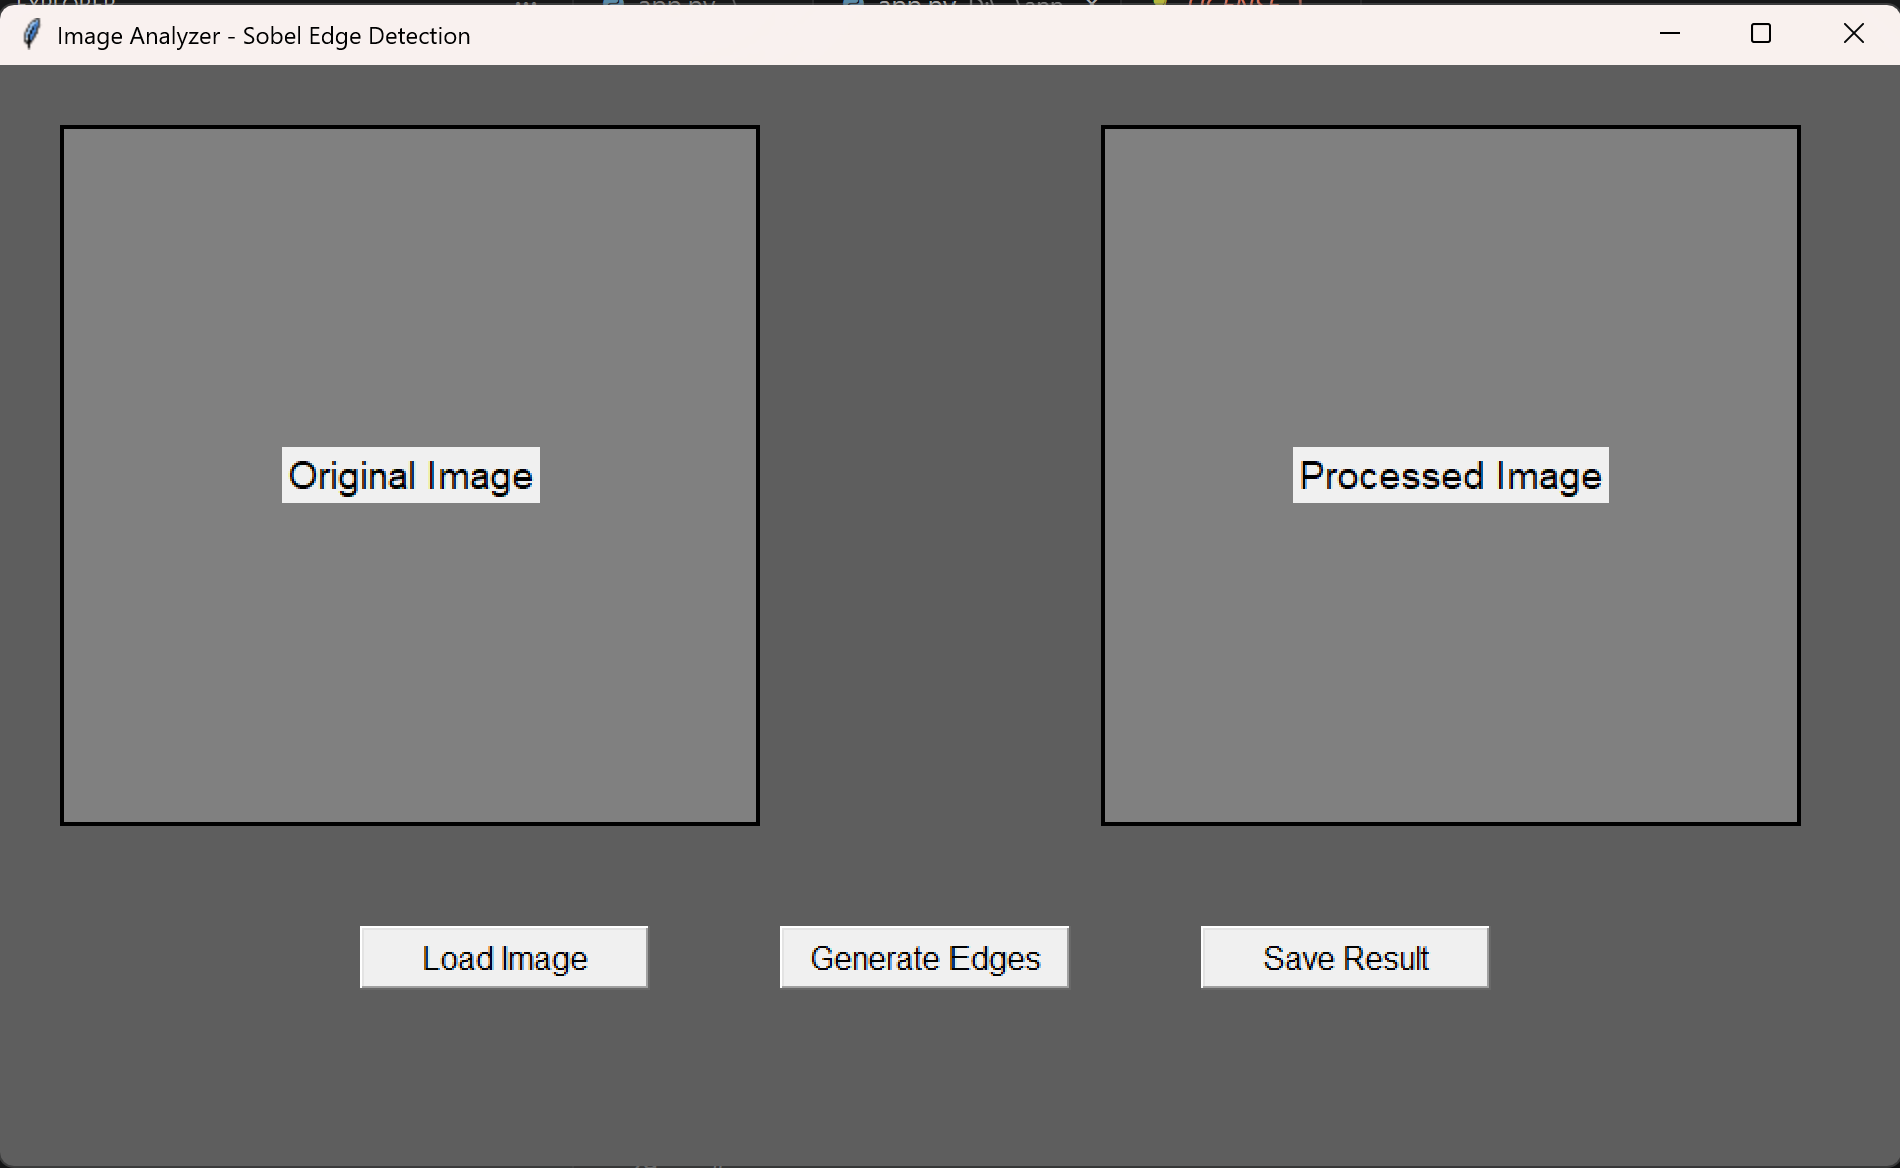
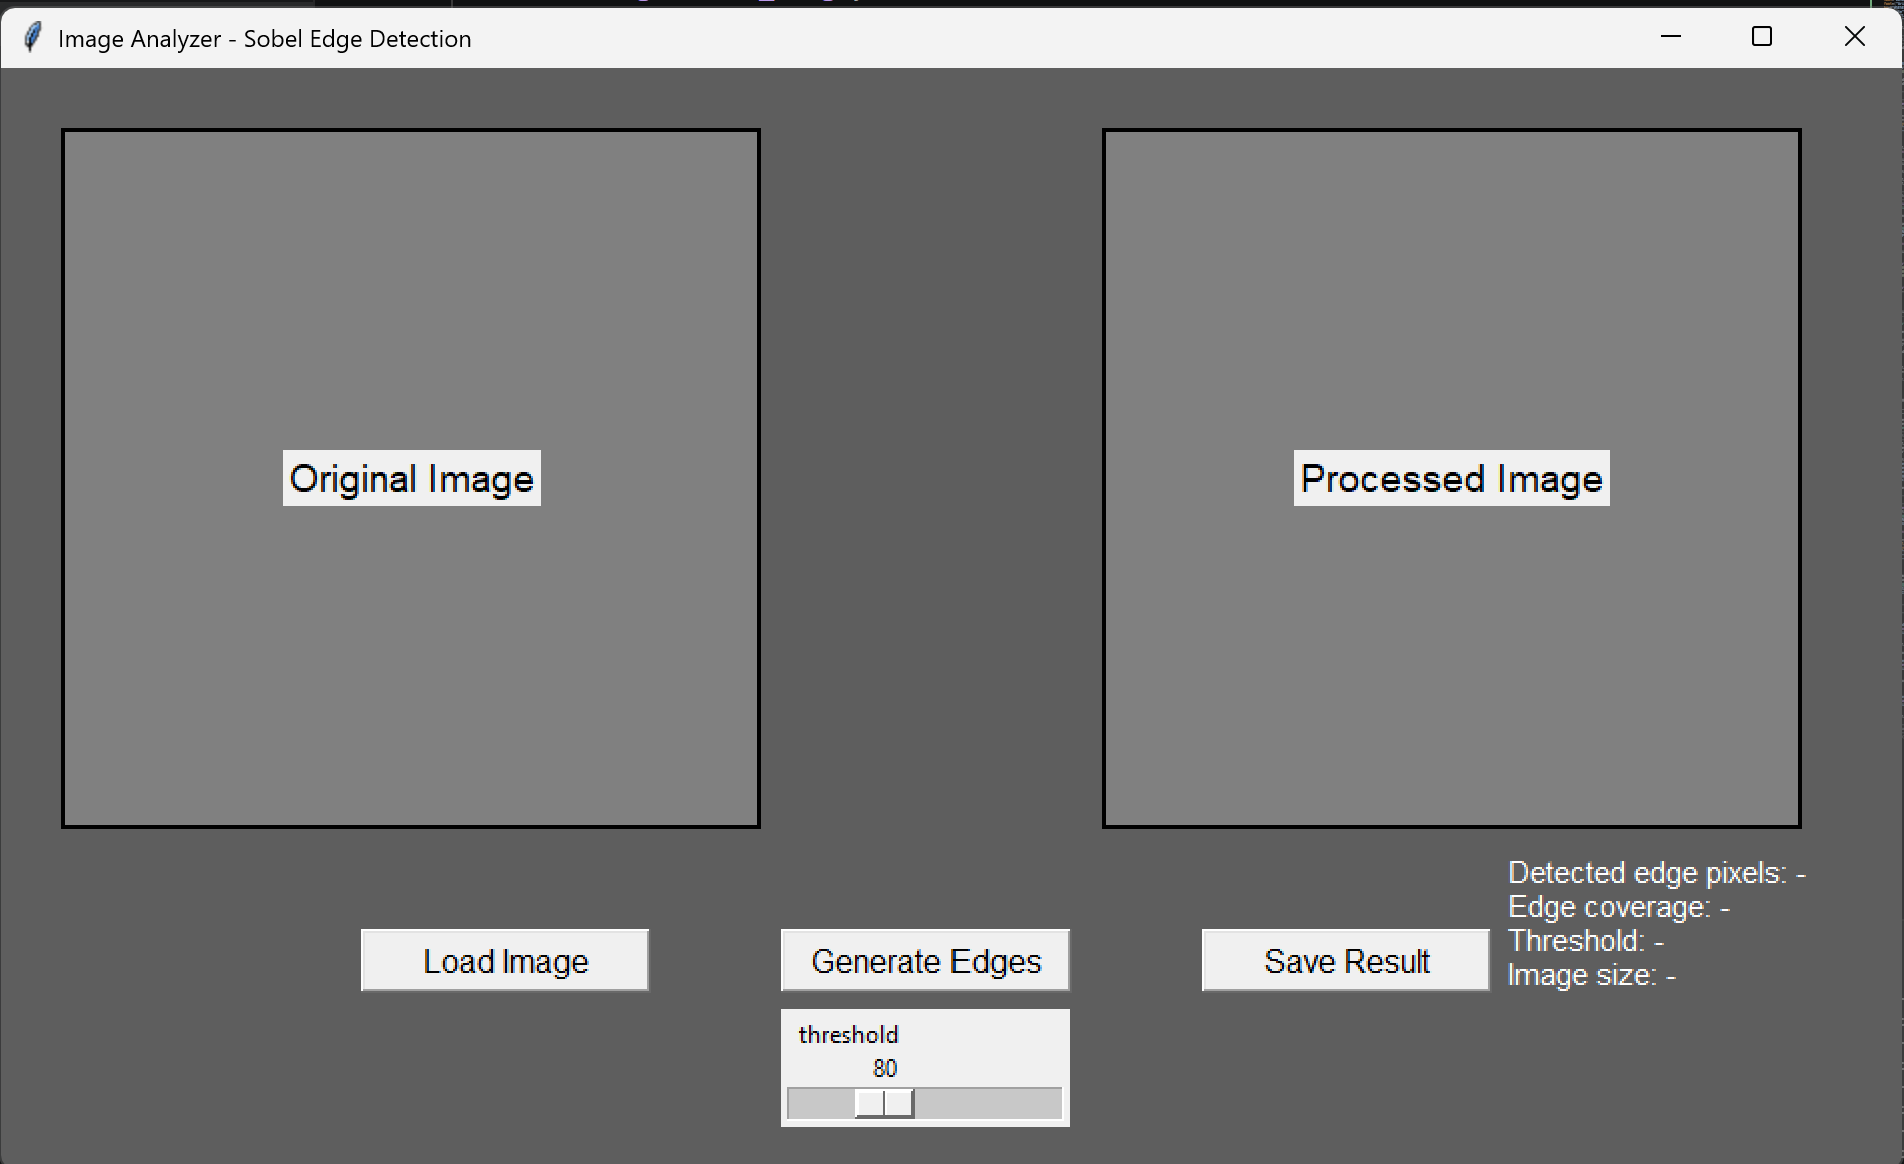
added threshold slider and statistics

diff --git a/app.py b/app.py
@@ -1,3 +1,4 @@
+import time
 from tkinter import *
 from tkinter import filedialog, messagebox
 from PIL import Image, ImageTk
@@ -18,7 +19,7 @@ original_img = None
 generated_img = None
 
 # -------------------------------
-# Frames (optional structure)
+# Frames
 # -------------------------------
 left_frame = Frame(root, width=IMG_WIDTH, height=IMG_HEIGHT, bd=2, relief="solid", bg="gray")
 left_frame.place(x=30, y=30)
@@ -27,13 +28,42 @@ right_frame = Frame(root, width=IMG_WIDTH, height=IMG_HEIGHT, bd=2, relief="soli
 right_frame.place(x=550, y=30)
 
 # -------------------------------
-# Image placeholders (labels)
+# Image placeholders
 # -------------------------------
 left_label = Label(left_frame, text="Original Image", font=("Arial", 14))
 left_label.place(relx=0.5, rely=0.5, anchor="center")
 
 right_label = Label(right_frame, text="Processed Image", font=("Arial", 14))
 right_label.place(relx=0.5, rely=0.5, anchor="center")
+
+# -------------------------------
+# Statistics label under processed image
+# -------------------------------
+stats_label = Label(
+    root,
+    text="Detected edge pixels: -\nEdge coverage: -\nThreshold: -\nImage size: -",
+    font=("Arial", 11),
+    bg="#5E5E5E",
+    fg="white",
+    justify="left",
+    anchor="w"
+)
+stats_label.place(x=750, y=390)
+
+# -------------------------------
+# Threshold slider
+# -------------------------------
+threshold_slider = Scale(
+    root,
+    from_= 0,
+    to = 255,
+    orient=HORIZONTAL,
+    label="threshold",
+    length=138
+)
+threshold_slider.place(x=390,y=470)
+threshold_slider.set(80)
+
 # -------------------------------
 # Load Image
 # -------------------------------
@@ -56,13 +86,15 @@ def load_image():
 
     original_tk = ImageTk.PhotoImage(original_img)
 
-    left_label.config(image=original_tk)
+    left_label.config(image=original_tk, text="")
     left_label.image = original_tk
 
 # -------------------------------
 # Generate Sobel Edges
 # -------------------------------
 def generate_image():
+    start = time.perf_counter()
+
     global generated_img
 
     if original_img is None:
@@ -92,7 +124,6 @@ def generate_image():
 
     for y in range(1, height - 1):
         for x in range(1, width - 1):
-
             region = img_array[y-1:y+2, x-1:x+2]
 
             sx = np.sum(region * Gx)
@@ -105,18 +136,34 @@ def generate_image():
     if max_val > 0:
         edge = (edge / max_val) * 255
 
-    threshold = 80
+    # Threshold
+    threshold = threshold_slider.get()
     edge[edge < threshold] = 0
     edge[edge >= threshold] = 255
 
     edge = edge.astype(np.uint8)
 
     generated_img = Image.fromarray(edge)
-
     generated_tk = ImageTk.PhotoImage(generated_img)
 
-    right_label.config(image=generated_tk)
+    right_label.config(image=generated_tk, text="")
     right_label.image = generated_tk
+    end = time.perf_counter()
+    # -------------------------------
+    # Image statistics
+    # -------------------------------
+    edge_pixels = np.count_nonzero(edge == 255)
+    total_pixels = width * height
+    edge_coverage = (edge_pixels / total_pixels) * 100
+
+    stats_text = (
+        f"Detected edge pixels: {edge_pixels:,}\n"
+        f"Edge coverage: {edge_coverage:.1f}%\n"
+        f"Threshold: {threshold}\n"
+        f"Image size: {width} x {height}\n"
+        f"Process time: {(end - start)*1000}"
+    )
+    stats_label.config(text=stats_text)
 
 # -------------------------------
 # Save Result
